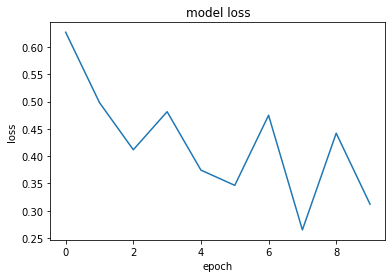
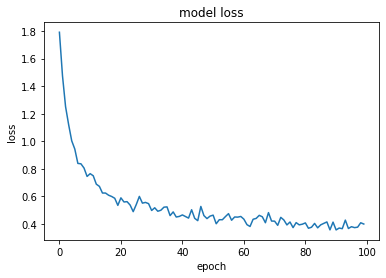
modify MNIST

diff --git a/_posts/2021-04-10-MNIST.md b/_posts/2021-04-10-MNIST.md
@@ -116,7 +116,8 @@ from torch.utils.data import TensorDataset
 from torch.utils.data import DataLoader
 import matplotlib.pyplot as plt
 
-# GPU로 바꾸려했지만, RuntimeError: Tensor for argument #2 ‘weight’ is on CPU, but expected it to be on GPU (while checking arguments for cudnn_batch_norm) 가 떠서 해결법을 못찾음
+# GPU로 바꾸려했지만, 
+# RuntimeError: Tensor for argument #2 ‘weight’ is on CPU, but expected it to be on GPU (while checking arguments for cudnn_batch_norm) 가 떠서 해결법을 못찾음
 print(torch.cuda.is_available())
 dev = torch.device(
     "cuda") if torch.cuda.is_available() else torch.device("cpu")
@@ -142,6 +143,8 @@ class MyModule(nn.Module):
     def __init__(self, layer = 1):
         super().__init__()
         self.max_layer = 512
+        self.relu = nn.ReLU()
+        self.log_softmax = nn.LogSoftmax()
         self.linears = nn.ModuleList()
         '''
         layer = 1 : 784 x 10
@@ -159,8 +162,10 @@ class MyModule(nn.Module):
         else :
             self.linears.append(nn.Linear(784, 10))
     def forward(self, x):
-        for linear in self.linears :
-            x = linear(x)
+        for linear in self.linears[:-1] :
+            x = self.relu(linear(x))
+        # output layer
+        x = self.log_softmax(self.linears[-1](x))
         return x
 
 # model, optim 설정
@@ -213,8 +218,9 @@ def fit(epochs, model, loss_func, opt, train_dl, valid_dl):
 
 
 ```python
-batch_size = 256
-epochs = 10
+batch_size = 1024
+epochs = 100
+lr = 0.01
 # Dataset 정리
 train_ds = TensorDataset(x_train, y_train)
 valid_ds = TensorDataset(x_valid, y_valid)
@@ -229,12 +235,12 @@ Layer의 갯수와 accuracy 관계를 살펴보겠다.
 
 
 ```python
-model, opt = get_model(layer = 1, lr = 0.05)
+model, opt = get_model(layer = 1, lr = lr)
 train_loss = fit(epochs, model, loss_func, opt, train_dl, valid_dl)
 ```
 
-    train accuracy :  tensor(0.9058)
-    vaild accuracy :  tensor(0.9121)
+    train accuracy :  tensor(0.8970)
+    vaild accuracy :  tensor(0.9038)
 
 
 
@@ -254,12 +260,12 @@ plt.show()
 
 
 ```python
-model, opt = get_model(layer = 2, lr = 0.05)
+model, opt = get_model(layer = 2, lr = lr)
 train_loss = fit(epochs, model, loss_func, opt, train_dl, valid_dl)
 ```
 
-    train accuracy :  tensor(0.9180)
-    vaild accuracy :  tensor(0.9185)
+    train accuracy :  tensor(0.9187)
+    vaild accuracy :  tensor(0.9216)
 
 
 
@@ -279,12 +285,12 @@ plt.show()
 
 
 ```python
-model, opt = get_model(layer = 3, lr = 0.05)
+model, opt = get_model(layer = 3, lr = lr)
 train_loss = fit(epochs, model, loss_func, opt, train_dl, valid_dl)
 ```
 
-    train accuracy :  tensor(0.9204)
-    vaild accuracy :  tensor(0.9201)
+    train accuracy :  tensor(0.9255)
+    vaild accuracy :  tensor(0.9281)
 
 
 
@@ -304,12 +310,12 @@ plt.show()
 
 
 ```python
-model, opt = get_model(layer = 4, lr = 0.05)
+model, opt = get_model(layer = 4, lr = lr)
 train_loss = fit(epochs, model, loss_func, opt, train_dl, valid_dl)
 ```
 
-    train accuracy :  tensor(0.9203)
-    vaild accuracy :  tensor(0.9188)
+    train accuracy :  tensor(0.9272)
+    vaild accuracy :  tensor(0.9266)
 
 
 
@@ -329,12 +335,12 @@ plt.show()
 
 
 ```python
-model, opt = get_model(layer = 5, lr = 0.05)
+model, opt = get_model(layer = 5, lr = lr)
 train_loss = fit(epochs, model, loss_func, opt, train_dl, valid_dl)
 ```
 
-    train accuracy :  tensor(0.9192)
-    vaild accuracy :  tensor(0.9185)
+    train accuracy :  tensor(0.9267)
+    vaild accuracy :  tensor(0.9247)
 
 
 
@@ -355,11 +361,13 @@ plt.show()
 > 각 layer 노드가 많아 시간이 오래걸려 하이퍼파라미터 튜닝을 많이 못해봤지만, 대체적으로 **layer가 많다고 정확도가 좋아지진 않았다.** 
 >
 > 확실이 Machine Learning 모델(SVM, Logistic Regression 등등)로 돌렸을 때보다 성능이 많이 좋은것이 체감이되고, torch.nn 모듈 사용으로 인해 코드가 정말 간결해졌다.  
+>
+> 그런데 어떻게 train보다 valid의 정확도가 더 높은지... 알수가없다.
 
 
 ```python
-train_accuracy = [0.9058, 0.9180, 0.9204, 0.9203, 0.9192]
-valid_accuracy = [0.9121, 0.9185, 0.9201, 0.9188, 0.9185]
+train_accuracy = [0.8970, 0.9187, 0.9255, 0.9272, 0.9267]
+valid_accuracy = [0.9038, 0.9216, 0.9281, 0.9266, 0.9247]
 x = [1, 2, 3, 4, 5]
 # summarize history for accuracy
 plt.plot(x, train_accuracy)
